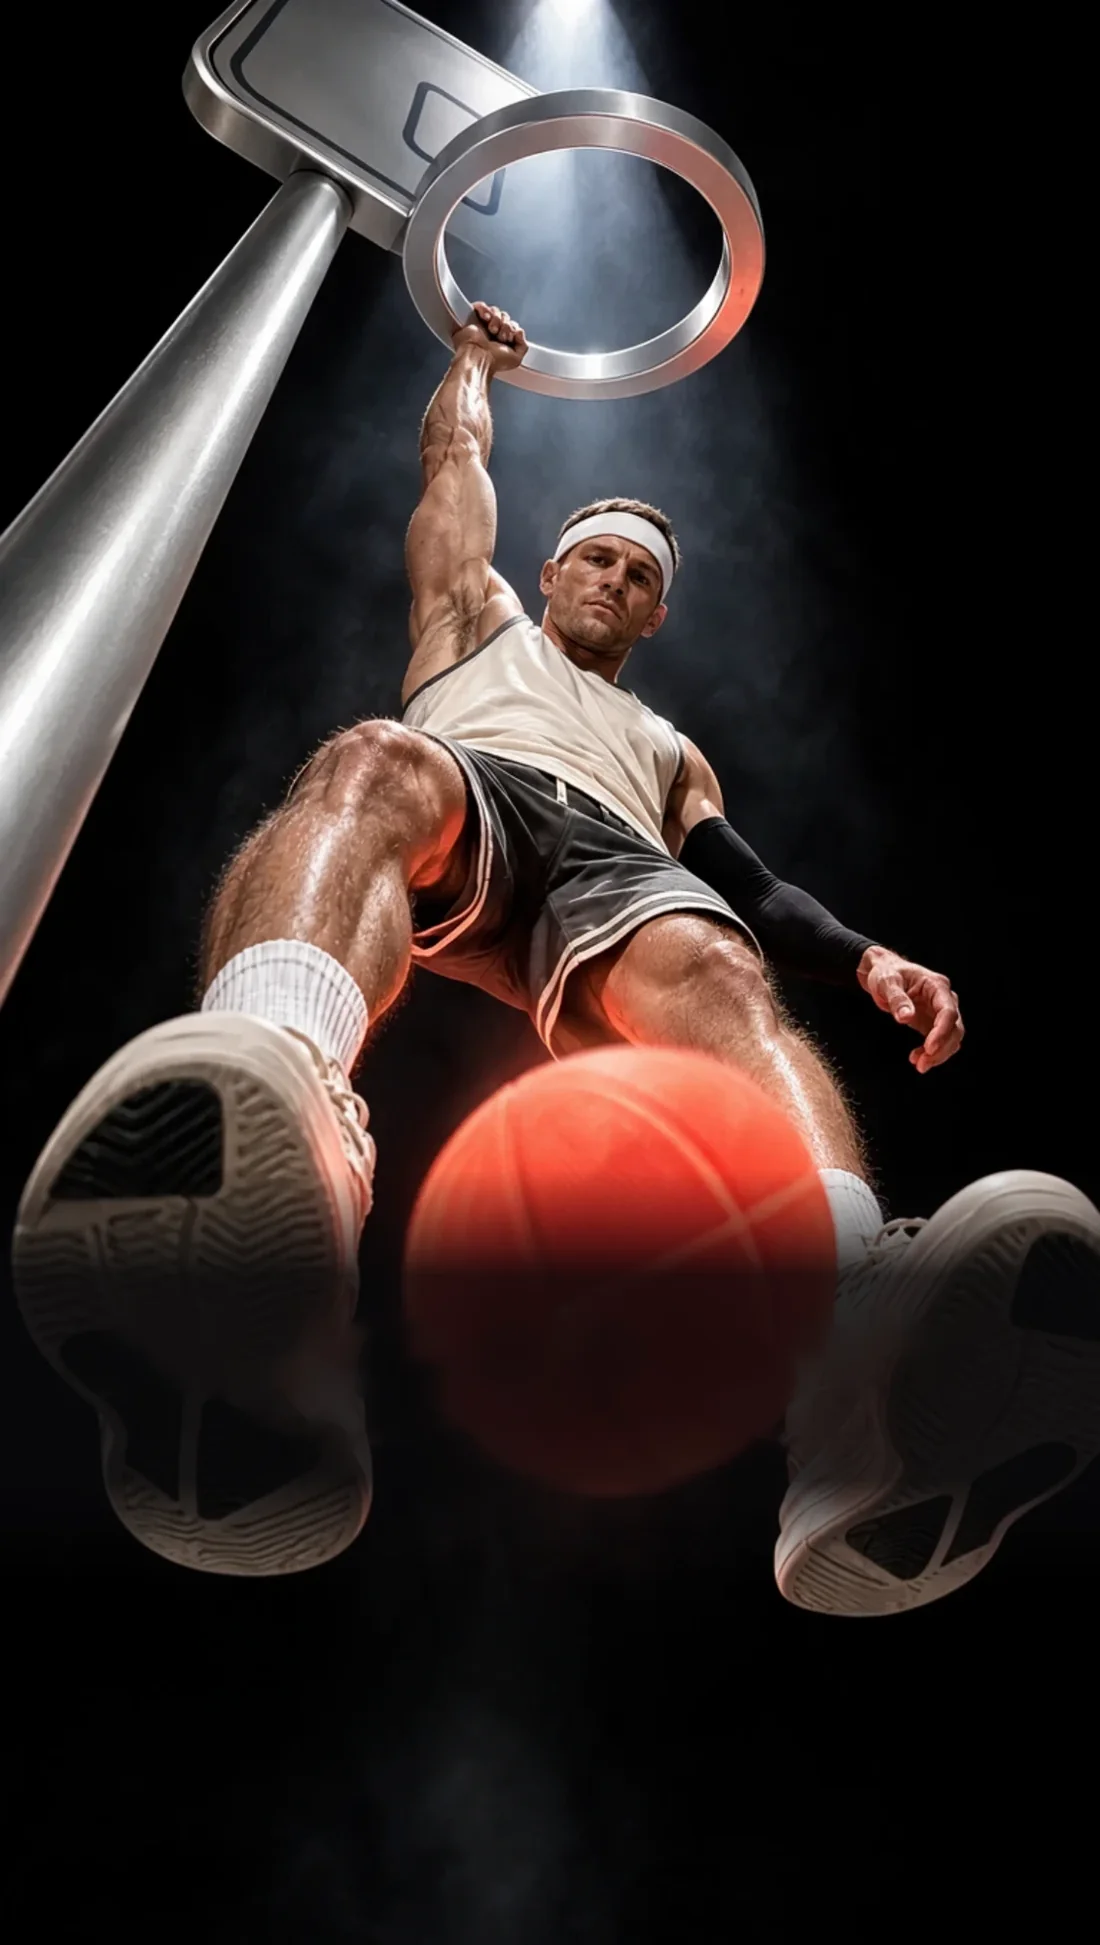
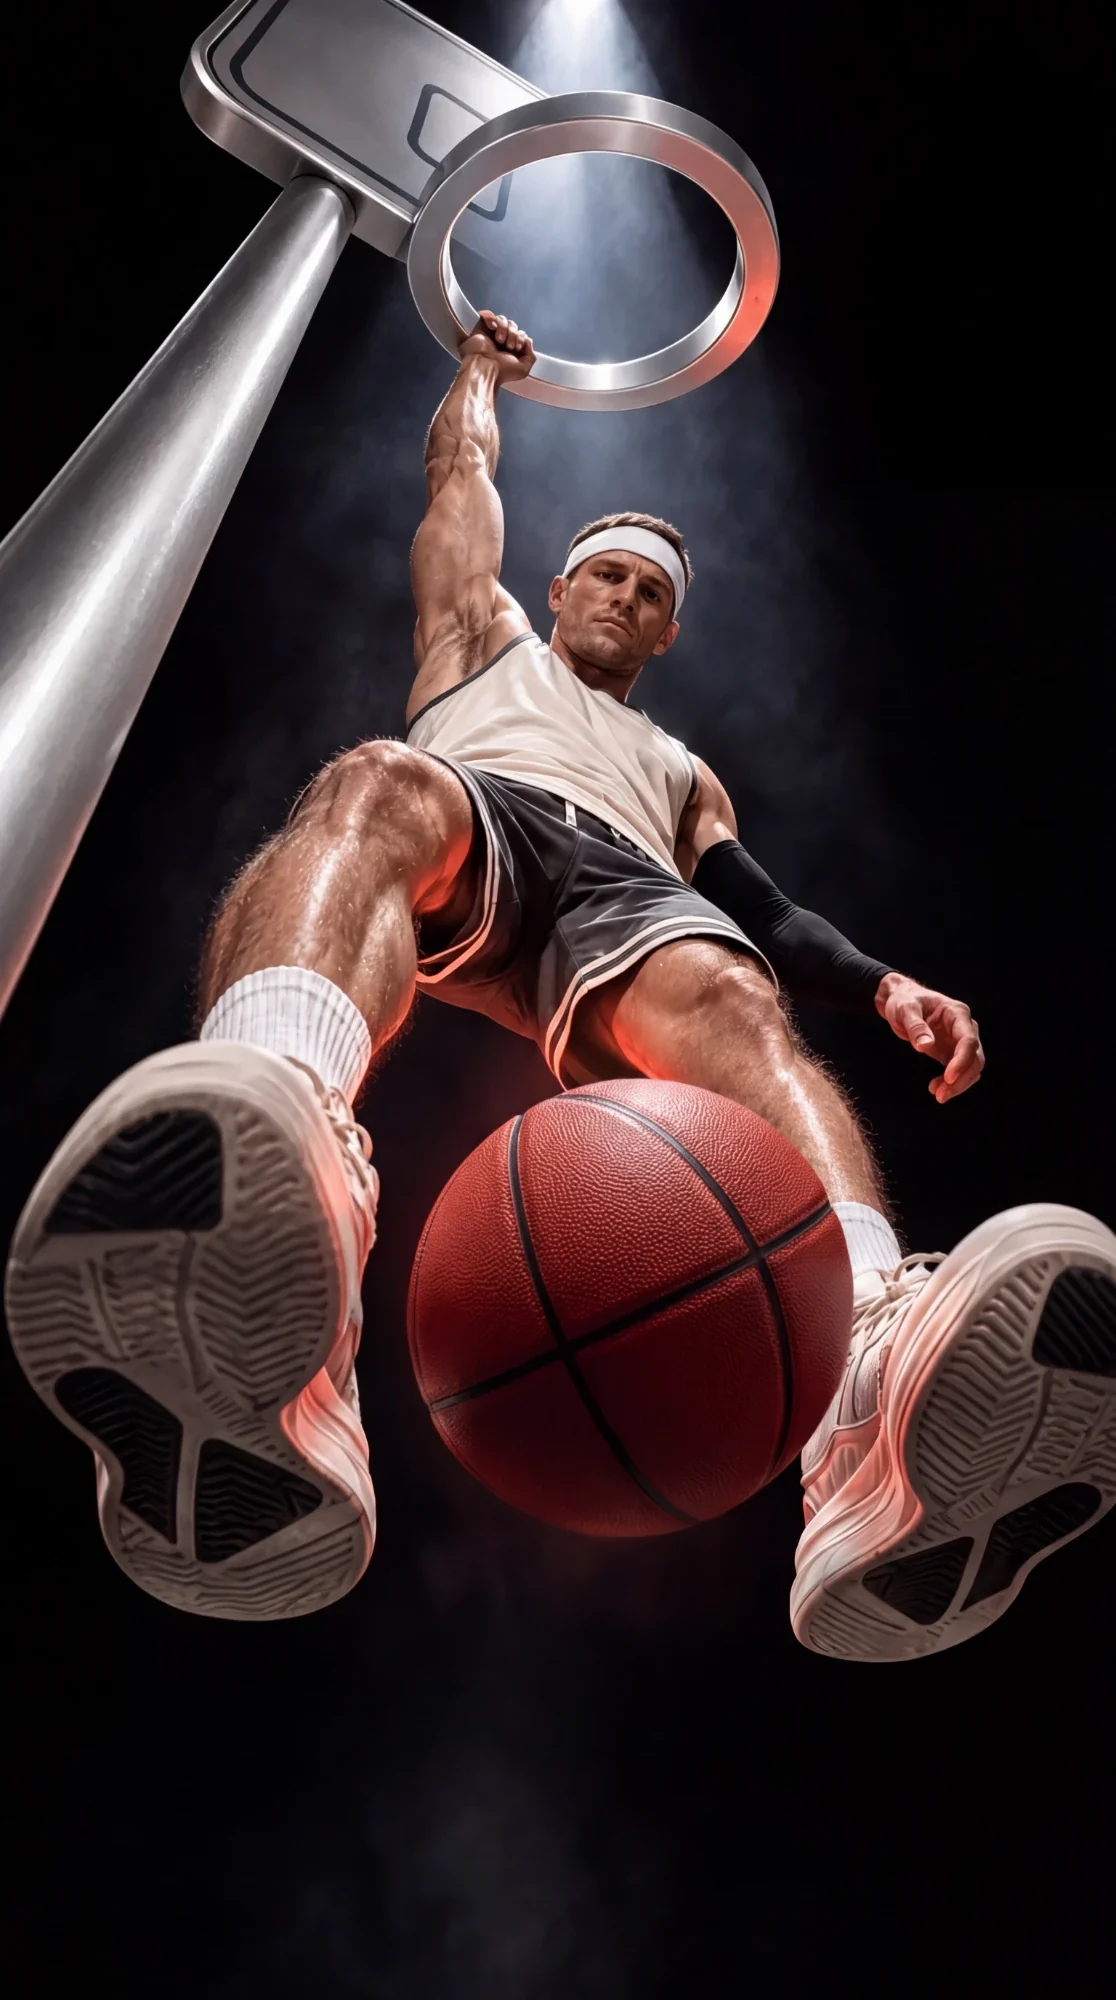
Главная плитка закреплена справа сверху, новые обложки
- ключ «главная: да»: плитка на две колонки, прижата к правому верхнему
  углу сетки, над ней ничего не встаёт. Ниже 1200px она течёт как все
- новые обложки Магссори (без надписи, 1116×2000) и Насти (1333×2000, 2/3)
- хлопушка вылезала за правый край около 1100px и давала горизонтальную
  прокрутку — вылет убран на экранах уже 1300px
- в README добавлен раздел, куда класть видео и какие имена зарезервированы

diff --git a/en/index.html b/en/index.html
@@ -367,7 +367,13 @@ section{scroll-margin-top:calc(var(--nav-h) + 10px)}
   transition:border-color .25s,transform .25s cubic-bezier(.16,1,.3,1);
 }
 /* горизонтальная обложка занимает две колонки — так ряд не становится таблицей */
-.card--wide{grid-column:span 2}
+.card--wide,.card--hero{grid-column:span 2}
+/* главная плитка: закреплена справа сверху, над ней ничего не встаёт.
+   Работает только там, где колонок хватает; на узком экране она просто
+   течёт вместе со всеми — так задумано */
+@media(min-width:1200px){
+  .card--hero{grid-column:-3/-1;grid-row:1/span var(--span,1)}
+}
 .card:hover,.card:focus-visible{border-color:var(--yellow);transform:translateY(-4px)}
 .card__media{
   position:absolute;inset:0;display:grid;place-items:center;overflow:hidden;
@@ -419,7 +425,7 @@ section{scroll-margin-top:calc(var(--nav-h) + 10px)}
 .card:hover .card__name{color:var(--yellow)}
 @media(max-width:620px){
   .gal{grid-template-columns:repeat(auto-fill,minmax(158px,1fr));gap:8px}
-  .card--wide{grid-column:span 1}
+  .card--wide,.card--hero{grid-column:span 1}
   .card__cap{padding:11px 11px 10px}
   .card__name{font-size:14px}
   .card__tag,.card__badge{font-size:8.5px;padding:4px 7px;top:7px}
@@ -1001,6 +1007,9 @@ footer{
 .contact > .wrap{position:relative;z-index:1}
 
 /* ---------- хлопушка: щелчок при появлении + медленное покачивание ---------- */
+/* вылет за правый край держится на поле страницы: около 1100px поля уже
+   не хватает и появлялась горизонтальная прокрутка */
+@media(max-width:1300px){.clap{right:-8px}}
 .clap{animation:clapsway 7.5s ease-in-out infinite alternate}
 @keyframes clapsway{from{rotate:-13deg}to{rotate:-11.2deg}}
 .clap .clap__stick{rotate:-7deg}
@@ -1449,8 +1458,9 @@ function cardHTML(w, i) {
     ? `<span class="card__badge">${PLAY}${w.dur ? `<em>${w.dur}</em>` : ''}</span>`
     : (w.photos && w.photos.length > 1 ? `<span class="card__badge"><em>${frames(w.photos.length)}</em></span>` : '');
   const tag = tagOf(w);
+  const big = w.hero ? ' card--hero' : w.wide ? ' card--wide' : '';
   return `
-  <a class="card${w.wide ? ' card--wide' : ''}" href="../work/${w.slug}/" data-i="${i}" data-ar="${arNum(w.ratio)}">
+  <a class="card${big}" href="../work/${w.slug}/" data-i="${i}" data-ar="${arNum(w.ratio)}">
     <span class="card__media">
       ${poster}${prev}${flip}
       ${poster || prev ? '' : L.slot[LANG]}

diff --git a/index.html b/index.html
@@ -367,7 +367,13 @@ section{scroll-margin-top:calc(var(--nav-h) + 10px)}
   transition:border-color .25s,transform .25s cubic-bezier(.16,1,.3,1);
 }
 /* горизонтальная обложка занимает две колонки — так ряд не становится таблицей */
-.card--wide{grid-column:span 2}
+.card--wide,.card--hero{grid-column:span 2}
+/* главная плитка: закреплена справа сверху, над ней ничего не встаёт.
+   Работает только там, где колонок хватает; на узком экране она просто
+   течёт вместе со всеми — так задумано */
+@media(min-width:1200px){
+  .card--hero{grid-column:-3/-1;grid-row:1/span var(--span,1)}
+}
 .card:hover,.card:focus-visible{border-color:var(--yellow);transform:translateY(-4px)}
 .card__media{
   position:absolute;inset:0;display:grid;place-items:center;overflow:hidden;
@@ -419,7 +425,7 @@ section{scroll-margin-top:calc(var(--nav-h) + 10px)}
 .card:hover .card__name{color:var(--yellow)}
 @media(max-width:620px){
   .gal{grid-template-columns:repeat(auto-fill,minmax(158px,1fr));gap:8px}
-  .card--wide{grid-column:span 1}
+  .card--wide,.card--hero{grid-column:span 1}
   .card__cap{padding:11px 11px 10px}
   .card__name{font-size:14px}
   .card__tag,.card__badge{font-size:8.5px;padding:4px 7px;top:7px}
@@ -1001,6 +1007,9 @@ footer{
 .contact > .wrap{position:relative;z-index:1}
 
 /* ---------- хлопушка: щелчок при появлении + медленное покачивание ---------- */
+/* вылет за правый край держится на поле страницы: около 1100px поля уже
+   не хватает и появлялась горизонтальная прокрутка */
+@media(max-width:1300px){.clap{right:-8px}}
 .clap{animation:clapsway 7.5s ease-in-out infinite alternate}
 @keyframes clapsway{from{rotate:-13deg}to{rotate:-11.2deg}}
 .clap .clap__stick{rotate:-7deg}
@@ -1474,8 +1483,9 @@ function cardHTML(w, i) {
     ? `<span class="card__badge">${PLAY}${w.dur ? `<em>${w.dur}</em>` : ''}</span>`
     : (w.photos && w.photos.length > 1 ? `<span class="card__badge"><em>${frames(w.photos.length)}</em></span>` : '');
   const tag = tagOf(w);
+  const big = w.hero ? ' card--hero' : w.wide ? ' card--wide' : '';
   return `
-  <a class="card${w.wide ? ' card--wide' : ''}" href="work/${w.slug}/" data-i="${i}" data-ar="${arNum(w.ratio)}">
+  <a class="card${big}" href="work/${w.slug}/" data-i="${i}" data-ar="${arNum(w.ratio)}">
     <span class="card__media">
       ${poster}${prev}${flip}
       ${poster || prev ? '' : L.slot[LANG]}

diff --git a/build.py b/build.py
@@ -41,6 +41,8 @@ KEYS = {
     "focus":    ["фокус", "кадрирование", "focus"],
     # плитка на две колонки — для горизонтальных обложек
     "wide":     ["широкая", "wide"],
+    # то же, но закреплена справа сверху: над ней ничего не встаёт
+    "hero":     ["главная", "hero"],
     # подпись на значке проигрывания, вида 0:38
     "dur":      ["длительность", "хронометраж", "duration"],
     # подпись на чипе слева вверху; по умолчанию берётся из жанра
@@ -142,6 +144,9 @@ def rel(p: Path) -> str:
     return p.relative_to(ROOT).as_posix()
 
 
+YES = {"да", "yes", "true", "1", "+"}
+
+
 def collect(folder: Path, idx: int = 0) -> dict | None:
     info = parse_info(folder / "info.txt")
     cover = pick(folder, COVER_NAMES, PHOTO_EXT)
@@ -178,7 +183,8 @@ def collect(folder: Path, idx: int = 0) -> dict | None:
         "tag_en": info.get("tag_en", ""),
         # object-position обложки: кадр обрезается под плитку, а не наоборот
         "focus": info.get("focus", ""),
-        "wide": info.get("wide", "").strip().lower() in {"да", "yes", "true", "1", "+"},
+        "wide": info.get("wide", "").strip().lower() in YES,
+        "hero": info.get("hero", "").strip().lower() in YES,
         "link": info.get("link", ""),
         "en": {k[:-3]: info[k] for k in ("title_en", "sub_en", "desc_en") if k in info},
         "photos": [rel(p) for p in photos],
@@ -229,7 +235,9 @@ def main() -> int:
         flags = []
         if p.get("preview"):
             flags.append("превью")
-        if p.get("wide"):
+        if p.get("hero"):
+            flags.append("главная")
+        elif p.get("wide"):
             flags.append("широкая")
         if p["hasCase"]:
             flags.append("кейс-страница")

diff --git a/README.md b/README.md
@@ -45,16 +45,40 @@ works/
 говорит ключ `фокус`:
 
 ```
-формат: 4/5          — высота плитки: 9/16, 3/4, 4/5, 1/1, 3/2, 16/9
+формат: 4/5          — высота плитки: 9/16, 2/3, 3/4, 4/5, 1/1, 3/2, 16/9
 фокус: 50% 30%       — центр, верх, низ или проценты: X Y
-широкая: да          — плитка на две колонки, для горизонтальных обложек
+широкая: да          — плитка на две колонки, встаёт туда, где поместится
+главная: да          — то же, но закреплена справа сверху: над ней ничего
+                       не встаёт. На узком экране течёт вместе со всеми
 ```
+
+Проще всего ставить `формат` равным пропорции самого кадра — тогда обрезки
+не будет совсем. Сейчас так у всех восьми работ.
 
 Если `формат` не указать, скрипт возьмёт его из ритма сетки по порядку работы —
 плитки сами получатся разной высоты.
 
 Обложка и петля в серию кадров не попадают — в карусели проекта будут только `01`, `02`, …
 Если обложки нет, постером станет первый кадр.
+
+### Куда класть видео
+
+**В папку своего проекта, рядом с обложкой.** Имя файла любое — скрипт берёт
+первый видеофайл в папке:
+
+```
+works/06-magssory-basketball/
+├── cover.webp     ← обложка, видна до наведения
+├── video.mp4      ← ролик: открывается по клику. Имя любое
+├── preview.mp4    ← петля на наведение. Имя важно
+└── info.txt
+```
+
+Зарезервированы ровно два имени: **`cover`** (обложка) и **`preview`** (петля).
+Всё остальное скрипт разбирает по расширению: `.mp4 .mov .m4v .webm` — видео,
+`.jpg .png .webp` — кадры.
+
+Положила файлы → `python3 build.py` → готово.
 
 ### Про петлю на наведение
 
@@ -116,6 +140,7 @@ works/
 
 - читает все папки в `works/`, собирает `projects.json`
 - раздаёт плиткам высоту по ритму сетки, если `формат` не указан вручную
+- считает длительность ролика для значка ▶ (нужен ffmpeg)
 - если установлен **ffmpeg** — снимает постер и режет лёгкую немую петлю
   на 6 секунд для наведения мышкой (тяжёлый исходник на главную не грузится)
 - в конце печатает список проектов и помечает те, где не хватает описания
